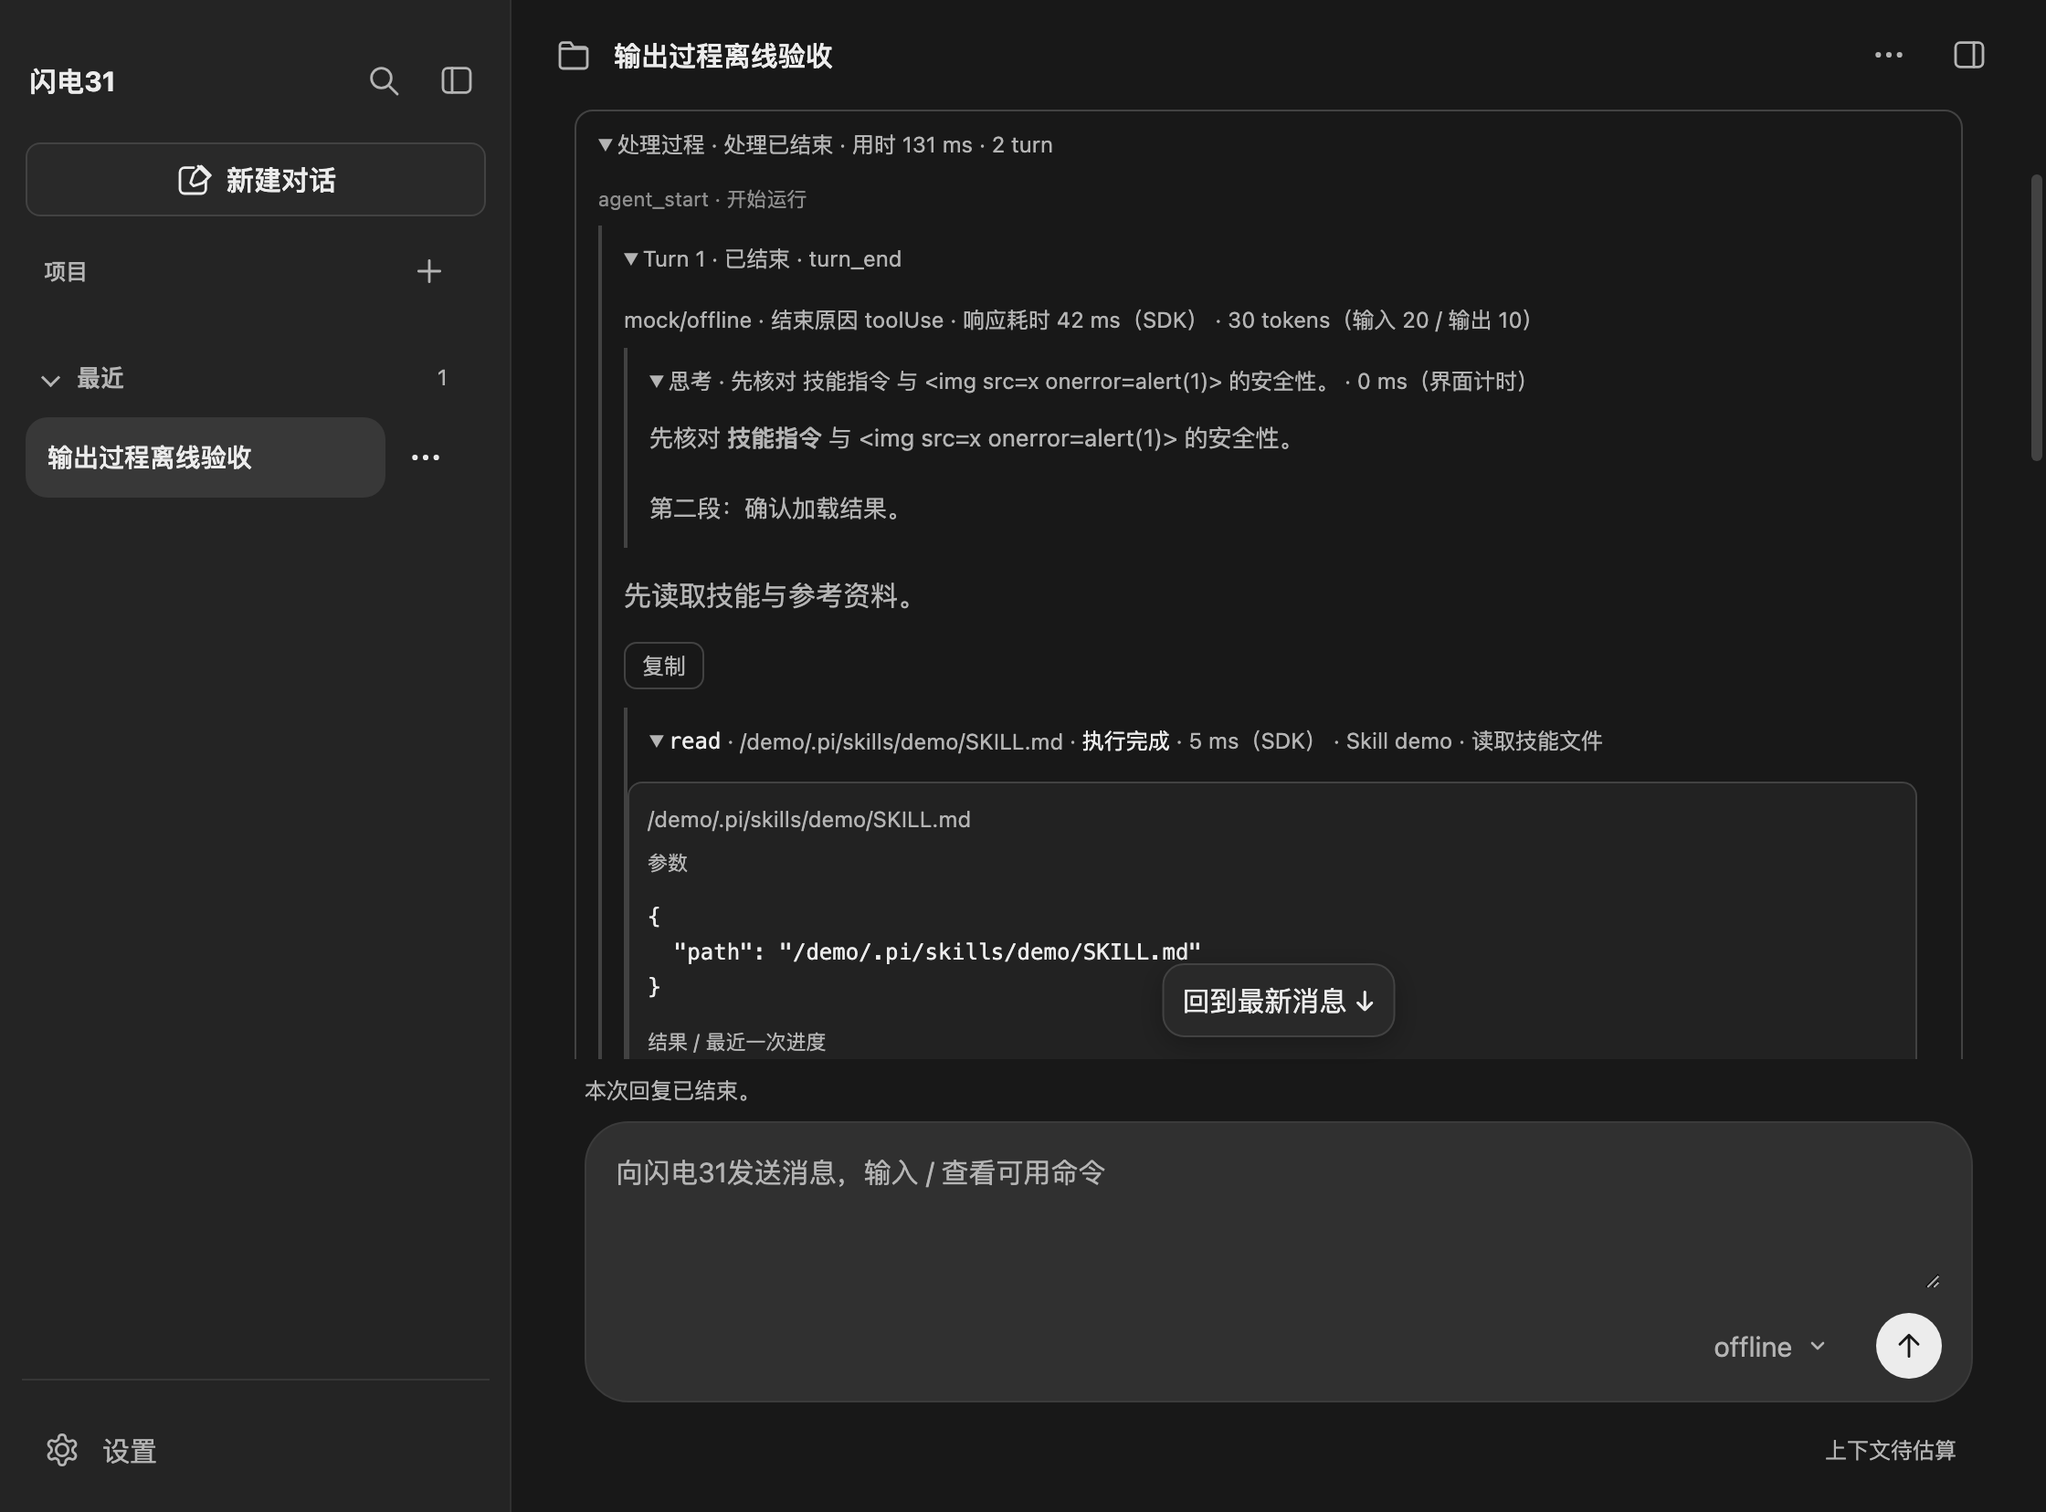
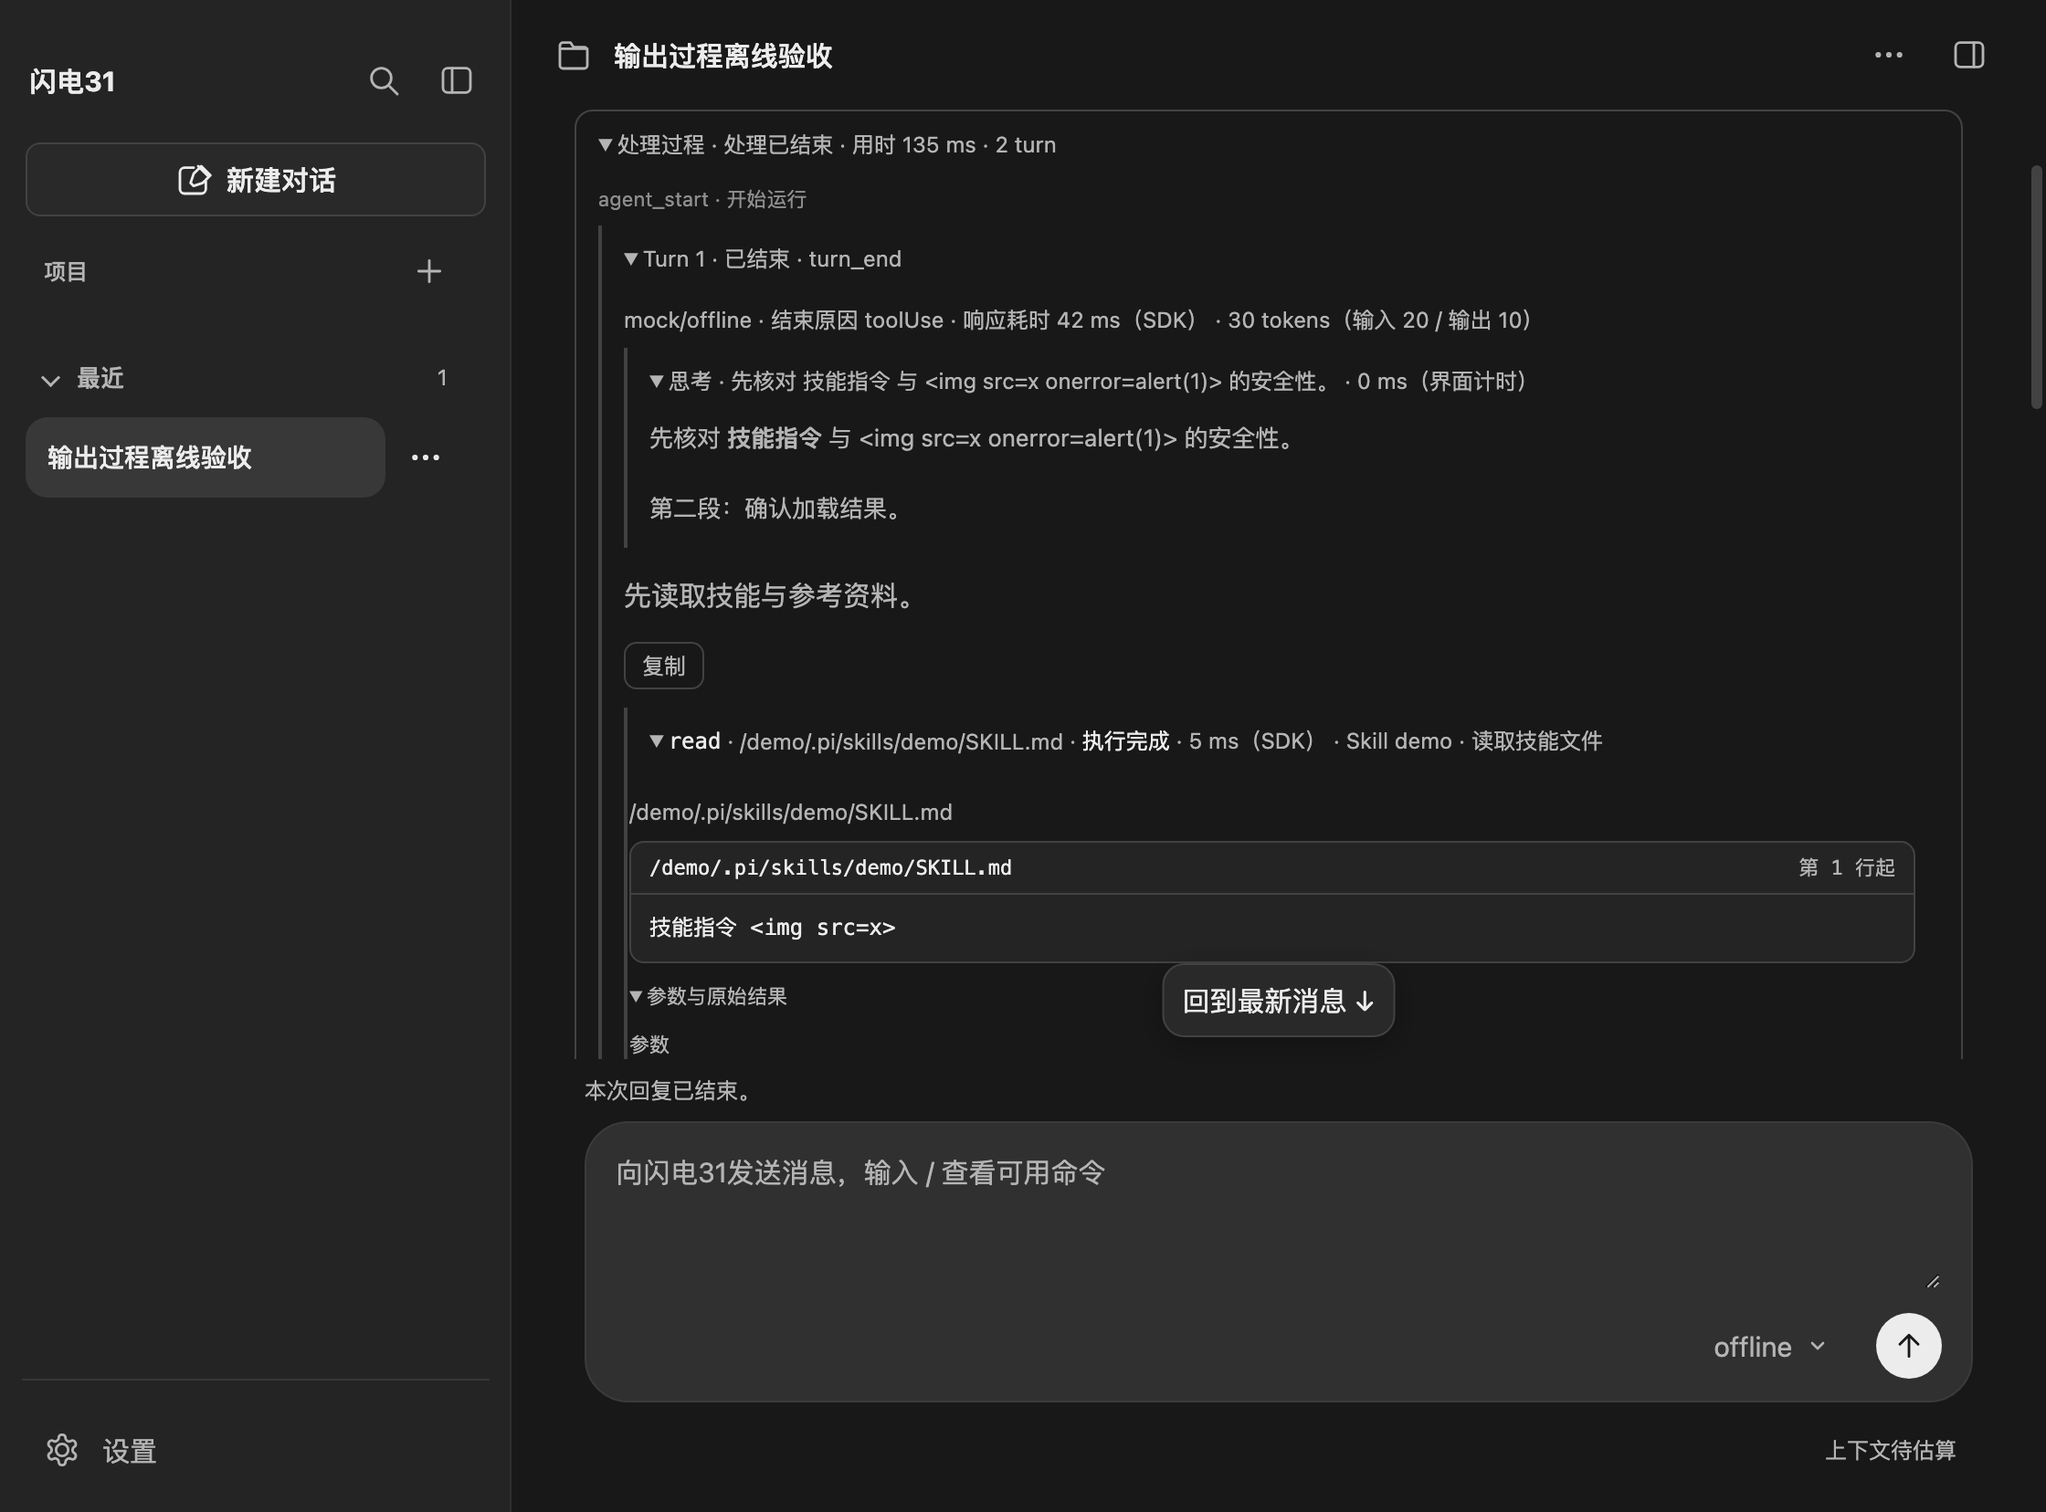
为 bash/read/write/edit 增加工具卡片，原始参数与结果折叠

diff --git a/src/renderer/components/output-trace.js b/src/renderer/components/output-trace.js
@@ -111,6 +111,110 @@ function changeStat(name, args) {
   return total.added || total.removed ? total : null;
 }
 
+const MAX_CARD_LINES = 200;
+
+// 退出码优先用结构化结果；历史记录只保存结果文本，从 Pi 追加的结束语读取。
+function exitCodeOf(call) {
+  if (Number.isInteger(call.exitCode)) return call.exitCode;
+  const match = /(?:^|\n)Command exited with code (\d+)\s*$/u.exec(call.result ?? "");
+  return match ? Number(match[1]) : undefined;
+}
+
+// 只对结构确定的工具生成卡片；其余继续走通用参数/结果。
+function toolCard(call) {
+  const args = call.args ?? {};
+  const name = call.name;
+  const text = call.result ?? "";
+  if (name === "bash" || name === "pwsh") {
+    if (typeof args.command !== "string" || args.command.trim() === "") return null;
+    return { kind: "terminal", command: args.command, output: text, exitCode: exitCodeOf(call) };
+  }
+  if (name === "read") {
+    if (typeof args.path !== "string" || args.path.trim() === "") return null;
+    return {
+      kind: "read", path: args.path, text,
+      offset: Number.isInteger(args.offset) && args.offset > 0 ? args.offset : 1,
+      limit: Number.isInteger(args.limit) && args.limit > 0 ? args.limit : undefined,
+    };
+  }
+  if (name === "write") {
+    if (typeof args.path !== "string" || typeof args.content !== "string") return null;
+    return { kind: "write", path: args.path, content: args.content };
+  }
+  if (name === "edit") {
+    if (typeof args.path !== "string" || args.path.trim() === "") return null;
+    const edits = (Array.isArray(args.edits) ? args.edits : [])
+      .filter(edit => typeof edit?.oldText === "string" && typeof edit?.newText === "string");
+    const diff = typeof call.diff === "string" ? call.diff : "";
+    if (diff === "" && edits.length === 0) return null;
+    return { kind: "diff", path: args.path, diff, edits };
+  }
+  return null;
+}
+
+// Pi 的 edit 差异文本以 +、- 或空格开头，并自带行号；缺失时按参数逐段还原。
+function diffRows(card) {
+  if (card.diff !== "") {
+    return card.diff.split("\n").map(text => ({
+      kind: text.startsWith("+") ? "add" : text.startsWith("-") ? "del" : "context",
+      text,
+    }));
+  }
+  const rows = [];
+  for (const edit of card.edits) {
+    if (rows.length > 0) rows.push({ kind: "gap", text: "……" });
+    for (const line of edit.oldText.split("\n")) rows.push({ kind: "del", text: `-${line}` });
+    for (const line of edit.newText.split("\n")) rows.push({ kind: "add", text: `+${line}` });
+  }
+  return rows;
+}
+
+function cappedRows(rows) {
+  if (rows.length <= MAX_CARD_LINES) return rows;
+  return [...rows.slice(0, MAX_CARD_LINES), { kind: "gap", text: `……共 ${rows.length} 行，页面仅显示前 ${MAX_CARD_LINES} 行` }];
+}
+
+function linesBlock(rows) {
+  const box = element("div", "trace-lines");
+  for (const row of rows) {
+    // 空行保留一个空格，横向滚动与行高才稳定。
+    box.append(element("div", `trace-line trace-line-${row.kind}`, row.text === "" ? " " : row.text));
+  }
+  return box;
+}
+
+function renderCard(call, card) {
+  const node = element("div", "trace-card");
+  node.dataset.kind = card.kind;
+  const header = element("div", "trace-card-header");
+  header.append(element("span", "trace-card-path", card.kind === "terminal" ? `$ ${oneLine(card.command, 120)}` : card.path));
+
+  if (card.kind === "terminal") {
+    if (card.exitCode !== undefined) {
+      header.append(element("span", card.exitCode === 0 ? "trace-exit trace-exit-ok" : "trace-exit trace-exit-bad", `exit ${card.exitCode}`));
+    }
+  } else if (card.kind === "read") {
+    header.append(element("span", "trace-card-meta", card.limit ? `第 ${card.offset} 行起 · 最多 ${card.limit} 行` : `第 ${card.offset} 行起`));
+  } else {
+    const stat = changeStat(card.kind === "diff" ? "edit" : "write", call.args);
+    const label = stat && [stat.added && `+${stat.added}`, stat.removed && `-${stat.removed}`].filter(Boolean).join(" ");
+    if (label) header.append(element("span", "trace-card-meta", label));
+  }
+  node.append(header);
+
+  if (card.kind === "terminal") {
+    node.append(element("pre", "trace-terminal", preview(card.output || "（尚无输出）")));
+  } else if (card.kind === "read") {
+    node.append(element("pre", "trace-read", preview(card.text || "（尚无内容）")));
+  } else if (card.kind === "write") {
+    const rows = card.content.split("\n").map(line => ({ kind: "add", text: `+${line}` }));
+    node.append(linesBlock(cappedRows(rows)));
+  } else {
+    node.append(linesBlock(cappedRows(diffRows(card))));
+  }
+  return node;
+}
+
 export function createOutputTrace(container, { historical = false, onUpdate = () => {} } = {}) {
   const root = element("section", "output-run");
   container.append(root);
@@ -266,9 +370,35 @@ export function createOutputTrace(container, { historical = false, onUpdate = ()
     const args = element("pre", "trace-args");
     const result = element("pre", "trace-result");
     const meta = element("p", "trace-meta");
+    const cardNode = element("div", "trace-card-slot");
+    const raw = element("div", "trace-raw");
+    // 自身内容与嵌套子调用分开存放，切换布局时不会移除子调用。
+    const own = element("div", "trace-own");
+    const nested = element("div", "trace-nested");
+    raw.append(element("p", "trace-caption", "参数"), args, element("p", "trace-caption", "结果 / 最近一次进度"), result);
     for (const node of [args, result]) node.tabIndex = 0;
-    view.body.append(meta, element("p", "trace-caption", "参数"), args, element("p", "trace-caption", "结果 / 最近一次进度"), result);
-    const call = { ...view, id, name, state: "等待执行", args: undefined, result: "", done: false };
+    own.append(meta, cardNode, raw);
+    view.body.append(own, nested);
+    // 有卡片时原始参数与结果收进折叠区；没有卡片时保持原来的直接展示。
+    let rawDetails;
+    let rawMode;
+    function setRawMode(withCard) {
+      const next = withCard ? "card" : "plain";
+      if (rawMode === next) return;
+      rawMode = next;
+      if (withCard) {
+        rawDetails ??= (() => {
+          const node = element("details", "trace-raw");
+          node.append(element("summary", "", "参数与原始结果"));
+          return node;
+        })();
+        rawDetails.append(raw);
+        own.replaceChildren(meta, cardNode, rawDetails);
+      } else {
+        own.replaceChildren(meta, cardNode, raw);
+      }
+    }
+    const call = { ...view, nested, id, name, state: "等待执行", args: undefined, result: "", done: false };
     call.renderTiming = () => {
       const summary = view.summary;
       // 名称、目标、状态与耗时分开排版，目标过长时由 CSS 省略，不挤掉状态。
@@ -294,12 +424,17 @@ export function createOutputTrace(container, { historical = false, onUpdate = ()
     };
     call.render = () => {
       call.renderTiming();
-      // 调用编号保留在节点属性和悬停提示里，正文只展示对阅读有用的信息。
-      meta.textContent = [call.skill?.path, call.parent && `嵌套调用 ${call.parent}`].filter(Boolean).join("\n");
+      const card = toolCard(call);
+      // 卡片已经展示文件路径时不再重复；调用编号只保留在节点属性和悬停提示里。
+      meta.textContent = [card ? "" : call.skill?.path, call.parent && `嵌套调用 ${call.parent}`].filter(Boolean).join("\n");
       meta.hidden = meta.textContent === "";
       meta.title = `toolCallId: ${call.id}${call.parent ? ` · parentToolCallId: ${call.parent}` : ""}`;
       args.textContent = preview(call.rawArgs ?? json(call.args));
       result.textContent = preview(call.result || (call.done ? "无文本结果" : "尚未返回结果"));
+      cardNode.replaceChildren();
+      cardNode.hidden = !card;
+      if (card) cardNode.append(renderCard(call, card));
+      setRawMode(Boolean(card));
     };
     calls.set(id, call);
     schedule(call.render);
@@ -350,8 +485,13 @@ export function createOutputTrace(container, { historical = false, onUpdate = ()
     call.skill = event.skill ?? call.skill;
     call.parent = event.parentToolCallId ?? call.parent;
     if (!historical && event.type !== "tool_execution_end") call.startedAt ??= performance.now();
-    if (call.parent && calls.has(call.parent)) calls.get(call.parent).body.append(call.node);
-    if (event.result) call.result = textContent(event.result.content);
+    if (call.parent && calls.has(call.parent)) calls.get(call.parent).nested.append(call.node);
+    if (event.result) {
+      call.result = textContent(event.result.content);
+      call.exitCode = event.result.exitCode;
+      call.diff = event.result.diff;
+      call.fullOutputPath = event.result.fullOutputPath;
+    }
     if (event.type === "tool_execution_end") {
       call.done = true;
       call.state = event.isError ? "执行失败" : "执行完成";
@@ -442,14 +582,15 @@ export function createOutputTrace(container, { historical = false, onUpdate = ()
     if (output.role === "assistant") { startTurn(); finalMessage(output); }
     if (output.role === "toolResult") {
       execution({ type: "tool_execution_end", toolCallId: output.toolCallId, toolName: output.toolName,
-        result: { content: output.content }, isError: output.isError, durationMs: output.durationMs, skill: output.skill });
+        result: { content: output.content, exitCode: output.exitCode, diff: output.diff, fullOutputPath: output.fullOutputPath },
+        isError: output.isError, durationMs: output.durationMs, skill: output.skill });
       for (const nested of output.nestedCalls?.calls ?? []) {
         const call = tool(nested.id, nested.name);
         call.parent = output.toolCallId; call.args = nested.arguments; call.done = nested.status !== "unfinished";
         call.state = { ok: "执行完成", error: "执行失败", unfinished: "结果未确认" }[nested.status];
         call.result = nested.error || "历史仅保存嵌套调用摘要，未记录结果正文。";
         call.durationMs = nested.durationMs;
-        calls.get(output.toolCallId).body.append(call.node);
+        calls.get(output.toolCallId).nested.append(call.node);
         schedule(call.render);
       }
       if (output.nestedCalls?.complete === false) lifecycle("nestedCalls", "嵌套调用记录不完整");

diff --git a/src/renderer/styles/output-trace.css b/src/renderer/styles/output-trace.css
@@ -100,6 +100,118 @@
   background: color-mix(in srgb, var(--surface) 55%, transparent);
 }
 
+/* 工具卡片：终端、读取、写入与差异共用同一外壳。 */
+/* 详情里已有卡片时不再套一层外框，避免双重边框。 */
+.output-trace .trace-tool > .trace-body:has(.trace-card) {
+  padding: 0;
+  border-color: transparent;
+  background: transparent;
+}
+
+.output-trace .trace-card {
+  margin: 6px 0;
+  border: 1px solid var(--border);
+  border-radius: 8px;
+  overflow: hidden;
+  background: color-mix(in srgb, var(--surface) 70%, transparent);
+}
+
+.output-trace .trace-card-header {
+  display: flex;
+  align-items: center;
+  justify-content: space-between;
+  gap: 8px;
+  padding: 5px 10px;
+  border-bottom: 1px solid var(--border);
+  color: var(--muted);
+  font: 11px/1.6 ui-monospace, SFMono-Regular, Menlo, monospace;
+}
+
+.output-trace .trace-card-path {
+  min-width: 0;
+  overflow: hidden;
+  white-space: nowrap;
+  text-overflow: ellipsis;
+  color: var(--text);
+}
+
+.output-trace .trace-card-meta {
+  flex: none;
+  color: var(--muted);
+}
+
+.output-trace .trace-exit {
+  flex: none;
+  padding: 0 6px;
+  border-radius: 999px;
+  font-size: 10px;
+  line-height: 16px;
+  background: color-mix(in srgb, currentColor 14%, transparent);
+}
+
+.output-trace .trace-exit-ok {
+  color: light-dark(#1a7f37, #63c27f);
+}
+
+.output-trace .trace-exit-bad {
+  color: light-dark(#b42318, #e07b74);
+}
+
+.output-trace .trace-terminal,
+.output-trace .trace-read {
+  margin: 0;
+  padding: 8px 10px;
+  max-height: 320px;
+  overflow: auto;
+  white-space: pre;
+  font: 12px/1.7 ui-monospace, SFMono-Regular, Menlo, monospace;
+  color: var(--text);
+  user-select: text;
+  tab-size: 2;
+}
+
+.output-trace .trace-lines {
+  max-height: 320px;
+  overflow: auto;
+  padding: 4px 0;
+  font: 12px/1.7 ui-monospace, SFMono-Regular, Menlo, monospace;
+  tab-size: 2;
+}
+
+.output-trace .trace-line {
+  padding: 0 10px;
+  white-space: pre;
+}
+
+.output-trace .trace-line-add {
+  background: var(--added-background);
+  color: light-dark(#1a7f37, #8fd6a2);
+}
+
+.output-trace .trace-line-del {
+  background: var(--removed-background);
+  color: light-dark(#b42318, #efa49e);
+}
+
+.output-trace .trace-line-context,
+.output-trace .trace-line-gap {
+  color: var(--muted);
+}
+
+.output-trace .trace-line-gap {
+  text-align: center;
+}
+
+.output-trace .trace-raw {
+  margin-top: 6px;
+}
+
+.output-trace .trace-raw > summary {
+  padding: 4px 0;
+  color: var(--muted);
+  font-size: 11px;
+}
+
 /* 思考行：折叠时一行预览，展开后按 Markdown 排版。 */
 .output-trace .trace-thinking > summary {
   white-space: nowrap;

diff --git a/src/main/adapters/output-event-adapter.js b/src/main/adapters/output-event-adapter.js
@@ -17,6 +17,22 @@ function contentBlocks(content) {
   });
 }
 
+// 工具结果里只取渲染卡片需要的标量字段，避免把 details/structuredContent 整体送到页面。
+function toolResultExtras(details, structured) {
+  const extras = {};
+  if (details && typeof details === "object") {
+    if (typeof details.diff === "string") extras.diff = details.diff;
+    if (typeof details.fullOutputPath === "string") extras.fullOutputPath = details.fullOutputPath;
+  }
+  if (structured && typeof structured === "object") {
+    if (Number.isInteger(structured.exit_code)) extras.exitCode = structured.exit_code;
+    if (extras.fullOutputPath === undefined && typeof structured.full_output_path === "string") {
+      extras.fullOutputPath = structured.full_output_path;
+    }
+  }
+  return extras;
+}
+
 function outputMessage(message) {
   if (!message) return null;
   if (message.role === "assistant") return {
@@ -27,6 +43,8 @@ function outputMessage(message) {
   if (message.role === "toolResult") return {
     role: "toolResult", toolCallId: message.toolCallId, toolName: message.toolName,
     content: contentBlocks(message.content), isError: message.isError,
+    // 历史消息只保存 details；bash 的退出码在旧记录里只能从结果文本读取。
+    ...toolResultExtras(message.details, undefined),
     durationMs: message.durationMs, nestedCalls: message.nestedCalls && {
       complete: message.nestedCalls.complete,
       calls: message.nestedCalls.calls.map(call => ({
@@ -103,7 +121,10 @@ function createOutputEventAdapter(getSession, parseSkillBlock, input) {
         parentToolCallId: event.parentToolCallId, args: event.args,
         skill: skill ?? calls.get(event.toolCallId),
       };
-      if (result) projected.result = { content: contentBlocks(result.content) };
+      if (result) projected.result = {
+        content: contentBlocks(result.content),
+        ...toolResultExtras(result.details, result.structuredContent),
+      };
       if (event.type === "tool_execution_end") {
         projected.isError = event.isError;
         projected.durationMs = event.durationMs;
